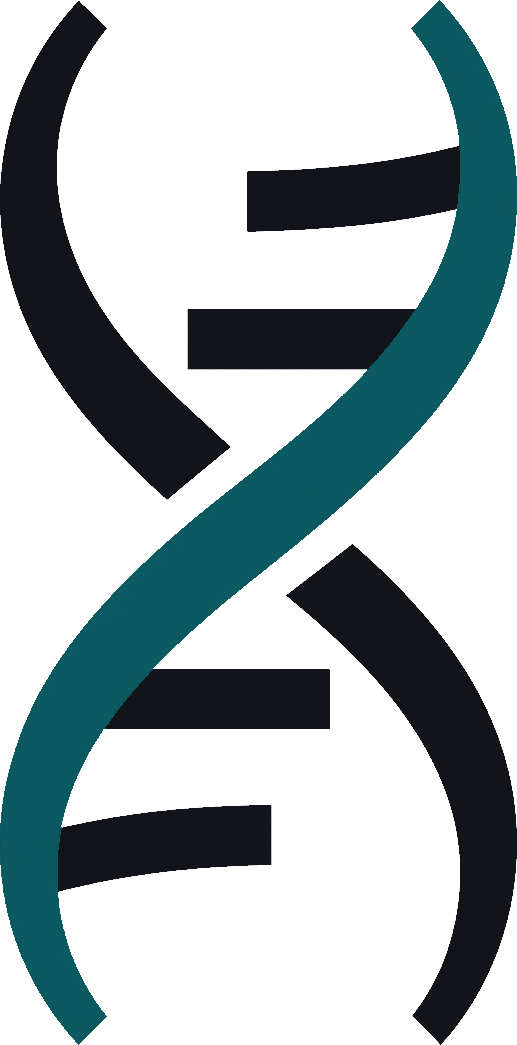
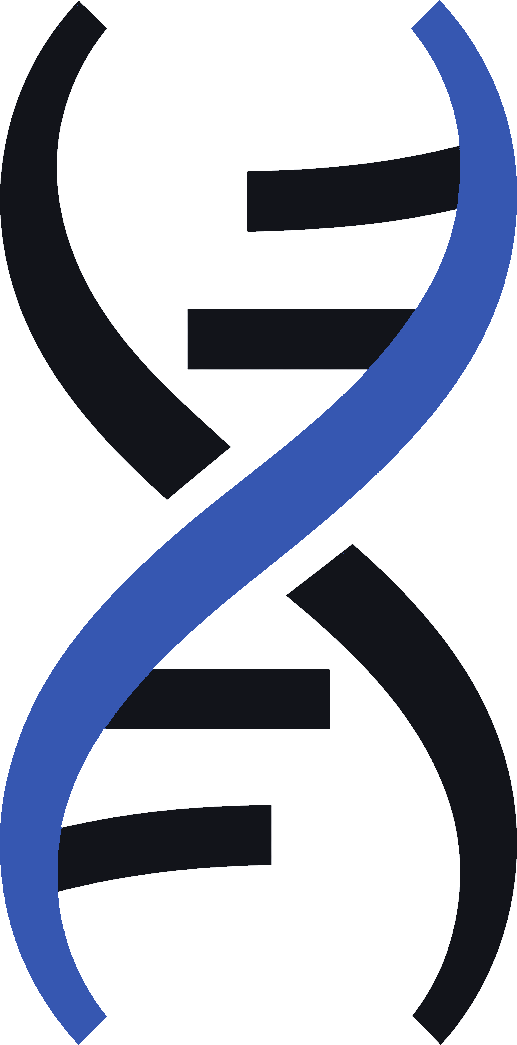
feat(brand): swap teal accent for royal blue from Jorge swatch

Changed region(s): [[0.0, 0.0, 1.0, 1.0]]

diff --git a/app/globals.css b/app/globals.css
@@ -17,20 +17,20 @@
   --color-navy-800: #061626;
   --color-navy-900: #040E1A;
 
-  /* Teal */
-  --color-teal-50:  #E6FAF7;
-  --color-teal-100: #C2F2EA;
-  --color-teal-200: #8AE5D7;
-  --color-teal-300: #4FD3BF;
-  --color-teal-400: #22C2A8;
-  --color-teal-500: #0d5c63;
-  --color-teal-600: #0a4f55;
-  --color-teal-700: #0d5c63;
-  --color-teal-800: #08464b;
-  --color-teal-900: #053D37;
+  /* Royal blue (house accent; token names keep teal-* for Tailwind back-compat) */
+  --color-teal-50:  #EEF2FB;
+  --color-teal-100: #D5DEF5;
+  --color-teal-200: #A8BCEB;
+  --color-teal-300: #6B8BE3;
+  --color-teal-400: #4B72DC;
+  --color-teal-500: #3657b1;
+  --color-teal-600: #2D4A96;
+  --color-teal-700: #3657b1;
+  --color-teal-800: #274085;
+  --color-teal-900: #1C2F63;
 
   /* Gold — AcumenAI signature accent (the accounting & finance product).
-     Teal is the shared Orchelix house accent; gold differentiates AcumenAI
+     Royal blue is the shared Orchelix house accent; gold differentiates AcumenAI
      (navy + gold = premium-finance / ledger / audit). */
   --color-gold-50:  #FBF3DD;
   --color-gold-100: #F6E4B8;
@@ -155,7 +155,7 @@
      overused"), so the old bright fourth field-vivid stop is retired to a
      light neutral rather than a saturated highlight. */
   /* Calm B2B dwell palette (2026-09): warm paper, warm near-black ink,
-     one deep-teal accent for CTAs. No neon magenta / cyber gradients. */
+     one royal-blue accent for CTAs. No neon magenta / cyber gradients. */
   --lg-field:      #f5f1ea;
   --lg-field-2:    #efe9e0;
   --lg-field-3:    #e6dfd4;
@@ -165,10 +165,10 @@
   --lg-stock:      #f8f4ed;
   --lg-stock-2:    #efe9e0;
 
-  /* Single accent: deep teal for trust/ops CTAs (Book a pilot / Hear a real call). */
-  --lg-foil:       #0d5c63;
-  --lg-foil-lift:  #127a82;
-  /* Ink for text sitting ON the accent — white clears WCAG on deep teal. */
+  /* Single accent: royal blue from Jorge fabric swatch (Book a pilot / Hear a real call). */
+  --lg-foil:       #3657b1;
+  --lg-foil-lift:  #4b72dc;
+  /* Ink for text sitting ON the accent — white clears WCAG on royal blue. */
   --lg-foil-ink:   #FFFFFF;
 
   /* Structural ruling — warm ink at low opacity, not a second hue. */
@@ -1301,17 +1301,17 @@ body {
    lip and a dark bottom lip so it still reads as pressed rather than flat —
    just in the brand's Magenta now instead of gold. */
 .lg-foil-surface {
-  /* Deep teal stamp — calm, high-contrast CTA (no magenta ramp). */
+  /* Royal blue stamp — calm, high-contrast CTA (Jorge fabric swatch). */
   background-image: linear-gradient(
     100deg,
-    #08464b 0%, #0d5c63 14%, #1a7f88 31%, #0f6a72 44%,
-    #0a5056 58%, #14848d 74%, #0d5c63 88%, #08464b 100%
+    #274085 0%, #3657b1 14%, #4b72dc 31%, #3d63c4 44%,
+    #2d4a96 58%, #5a7ee0 74%, #3657b1 88%, #274085 100%
   );
   box-shadow:
     inset 0 1px 0 rgba(255, 255, 255, 0.28),
-    inset 0 -1px 0 rgba(4, 30, 34, 0.55),
+    inset 0 -1px 0 rgba(20, 35, 80, 0.55),
     0 1px 0 rgba(0, 0, 0, 0.10),
-    0 14px 26px -16px rgba(13, 92, 99, 0.45);
+    0 14px 26px -16px rgba(54, 87, 177, 0.45);
 }
 
 /* The wordmark, stamped. The lockup art becomes a mask so the foil ramp
